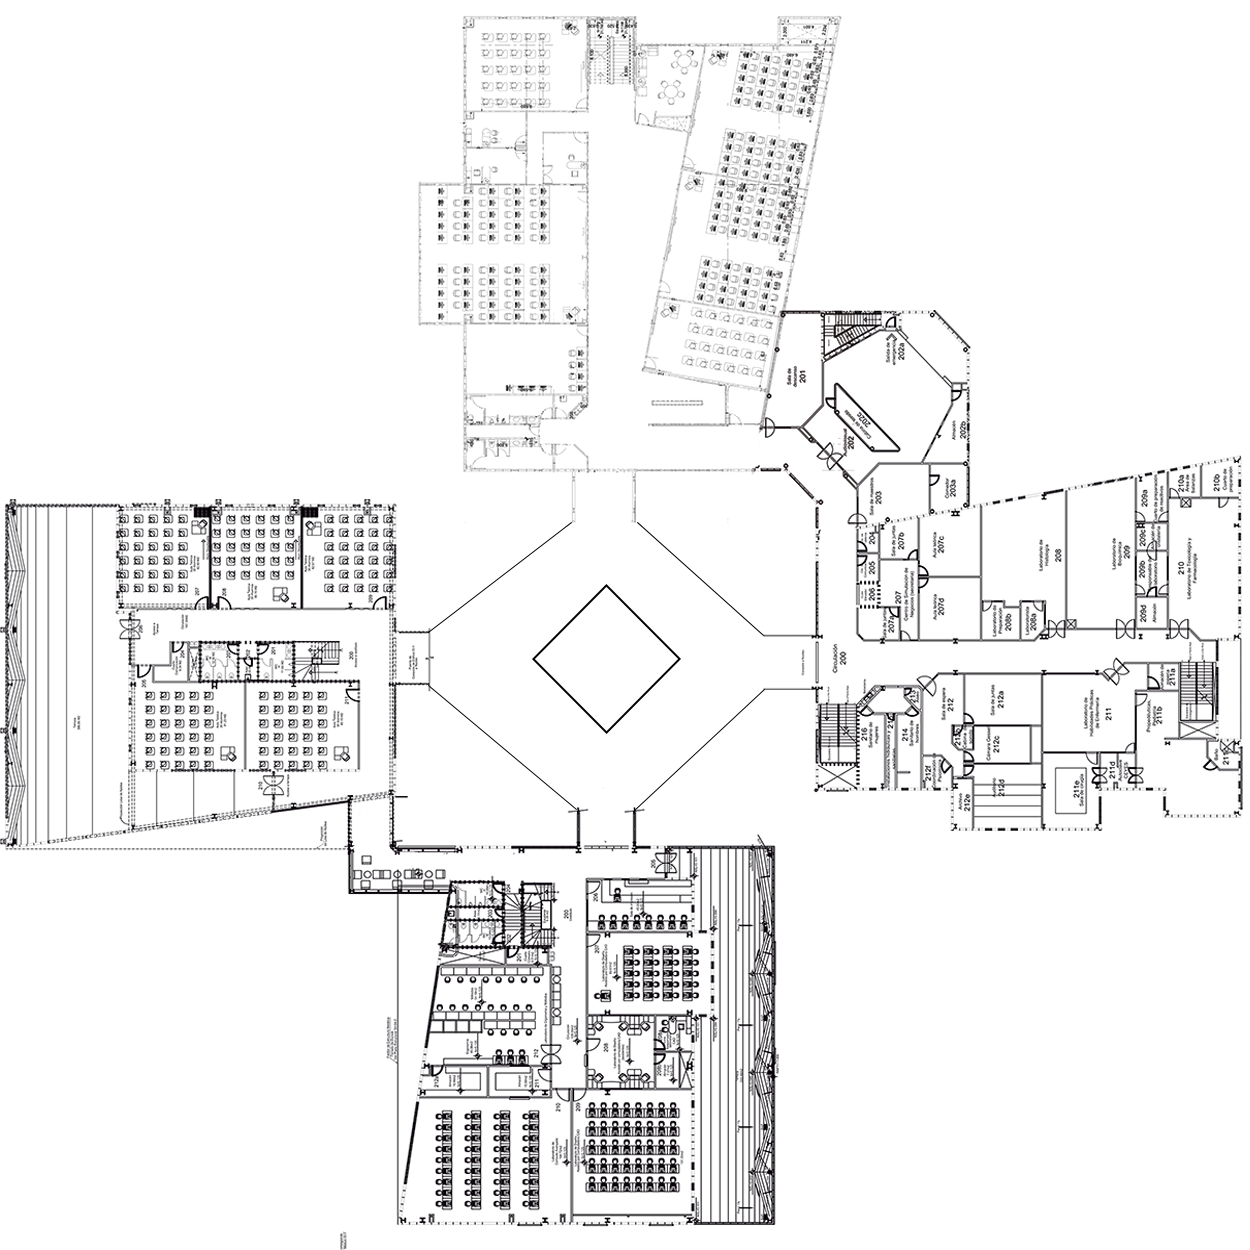
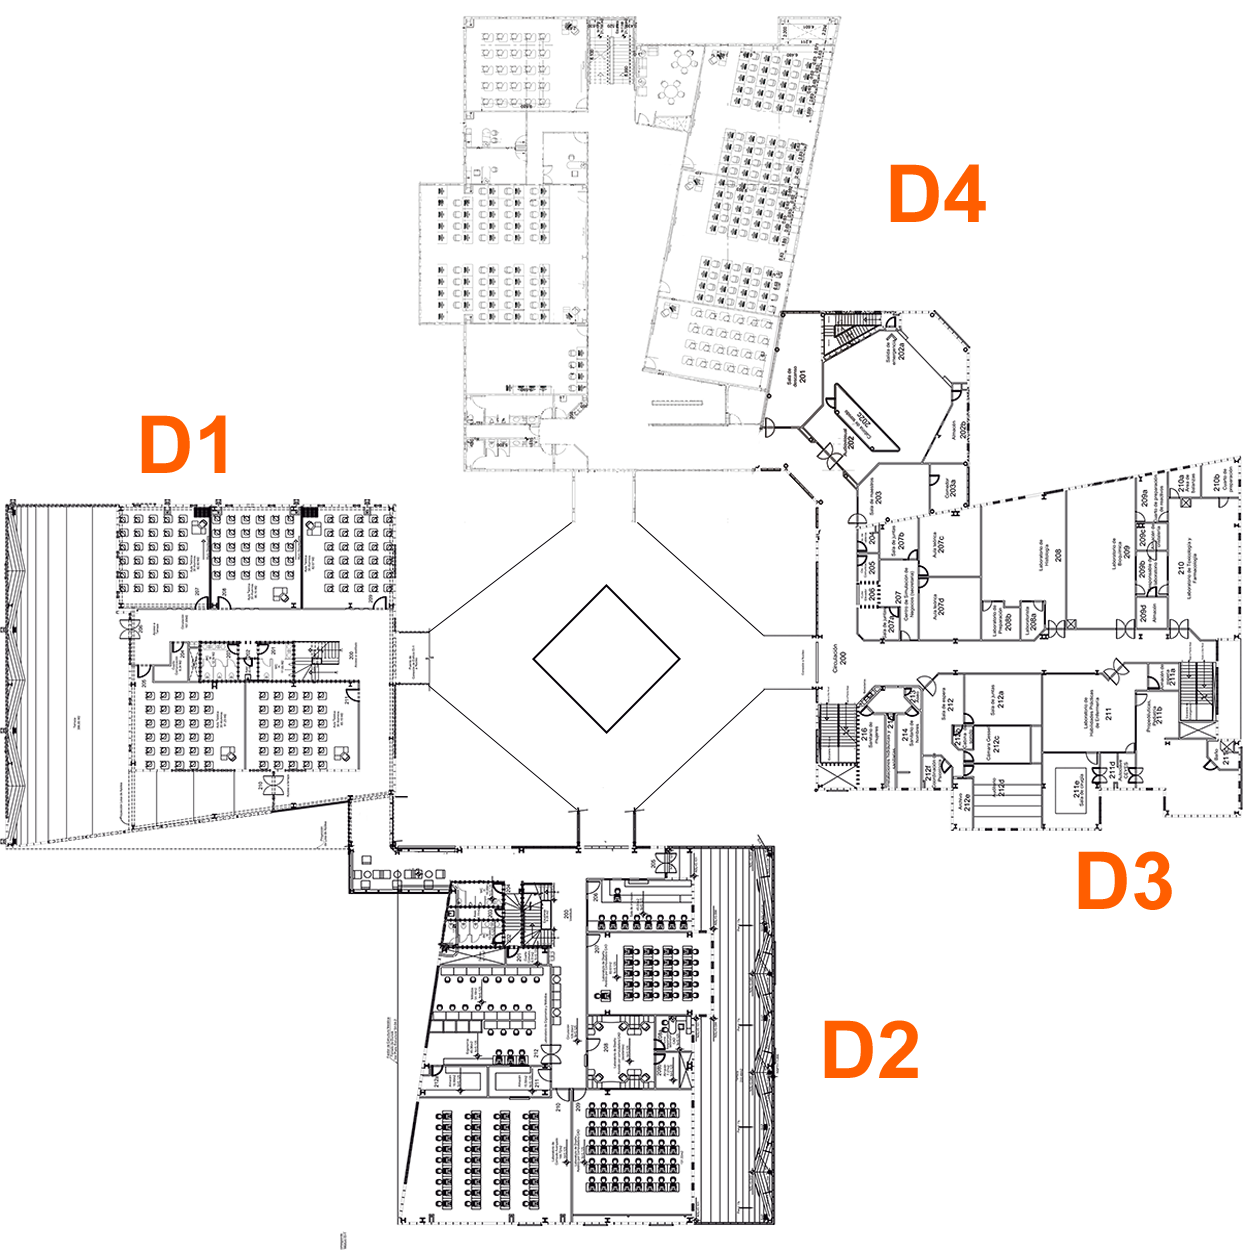
Ahi la llevamos x2

diff --git a/css/main.css b/css/main.css
@@ -25,67 +25,139 @@ div.fondo{
   width: 1250px
 }
 
-h2{
-  font-family: 'Oswald', sans-serif;
-  font-size: 2.4em;
-  text-transform: uppercase;
-  text-align: center;
-  color: orange;
-}
-
-h2#D1{
-  position: absolute;
-  top: 480px;
-  left: 180px;
-}
-
-h2#D2{
-  position: absolute;
-  top: 1000px;
-  left: 800px;
-}
-
-h2#D3{
-  position: absolute;
-  top: 880px;
-  left: 1050px;
-}
-
-h2#D4{
-  position: absolute;
-  top: 70px;
-  left: 900px;
-}
-
 
 div.menu{
   position: fixed;
   width: 100%;
-  height: 45px;
-  background-color: red;
+  height: 50px;
+  background-color: #353535;
+}
+
+div.menu p{
+background-color:#353535 ;
+padding:11px 25px;
+margin-top: 3px;
+margin-right: 100px;
+float: right;
+color:#fe4918;
+text-transform: uppercase;
+font-weight: bold;
+text-decoration: none;
+font-size: 1em;
+display: inline-block;
+transition: all .4s ease;
+border: 2px solid #fe4918;
+cursor: pointer;
+}
+
+div.menu p:hover{
+  background-color: #fe4918;
+color:white;
+}
+
+ div.p input[type=text] {
+    width: 100%;
+    height: 50px;
+    padding: 0px 25px;
+    margin: 8px 0;
+    border: 2px solid red;
+    border-radius: 4px;
+    cursor: none!important;
 }
 
 /*De aqui empiezan los nodos*/
 
-div.nodo{
+div.nodop{
   font-family: 'Arial', sans-serif;
   font-size:10px;
   font-weight: normal;
   position: absolute;
   height: 15px;
   width: 15px;
-  background-color: red;
+  background-color: black;
   border-radius: 50%;
 }
 
-div.nodo#D1204{
+div.nodov{
+  font-family: 'Arial', sans-serif;
+  font-size:10px;
+  font-weight: normal;
+  position: absolute;
+  height: 15px;
+  width: 15px;
+  background-color: yellow;
+  border-radius: 50%;
+}
+
+/*D1*/
+
+/*Nodos Puerta*/
+div.nodo#D1201{
   position: absolute;
   top: 25px;
   left: 50px;
 }
 
-div.nodo#D1P1{
+div.nodo#D1203{
   position: absolute;
   top: 50px;
   left: 50px;
 }
+
+div.nodo#D1204{
+  position: absolute;
+  top: 50px;
+  left: 50px;
+}
+
+div.nodo#D1205{
+  position: absolute;
+  top: 50px;
+  left: 50px;
+}
+
+div.nodo#D1206{
+  position: absolute;
+  top: 50px;
+  left: 50px;
+}
+
+div.nodo#D1207{
+  position: absolute;
+  top: 50px;
+  left: 50px;
+}
+
+div.nodo#D1208{
+  position: absolute;
+  top: 50px;
+  left: 50px;
+}
+
+div.nodo#D1209{
+  position: absolute;
+  top: 50px;
+  left: 50px;
+}
+
+div.nodo#D1210{
+  position: absolute;
+  top: 50px;
+  left: 50px;
+}
+
+div.nodo#D1211{
+  position: absolute;
+  top: 50px;
+  left: 50px;
+}
+
+div.nodo#D1212{
+  position: absolute;
+  top: 50px;
+  left: 50px;
+}
+
+
+
+/*Nodos Vestibulos*/

diff --git a/index.html b/index.html
@@ -10,17 +10,47 @@
 </head>
 <body>
   <div class="menu">
-    Iniciar
+    <p>Anchura</p>
+    <p>Primero El Mejor</p>
+    <input type="text">
+    <input type="text">
   </div>
 
   <div class="fondo">
-    <h2 id="D1">D1</h2>
-    <h2 id="D2">D2</h2>
-    <h2 id="D3">D3</h2>
-    <h2 id="D4">D4</h2>
 
-    <div class="nodo" id="D1204">D1204</div>
-    <div class="nodo" id="D1P1">D1P1</div>
+  <!-- D1-->
+
+    <div class="nodop" id="D1212">D1212</div>
+    <div class="nodop" id="D1211">D1211</div>
+    <div class="nodop" id="D1210">D1210</div>
+    <div class="nodop" id="D1209">D1209</div>
+    <div class="nodop" id="D1208">D1208</div>
+    <div class="nodop" id="D1207">D1207</div>
+    <div class="nodop" id="D1206">D1206</div>
+    <div class="nodop" id="D1205">D1205</div>
+    <div class="nodop" id="D1204">D1204</div>
+    <div class="nodop" id="D1203">D1203</div>
+    <div class="nodop" id="D1202">D1202</div>
+    <div class="nodop" id="D1201">D1201</div>
+
+    <div class="nodov" id="D1V0">D1V0</div>
+    <div class="nodov" id="D1V1">D1V1</div>
+    <div class="nodov" id="D1V2">D1V2</div>
+    <div class="nodov" id="D1V3">D1V3</div>
+    <div class="nodov" id="D1V4">D1V4</div>
+    <div class="nodov" id="D1V5">D1V5</div>
+    <div class="nodov" id="D1V6">D1V6</div>
+    <div class="nodov" id="D1V7">D1V7</div>
+    <div class="nodov" id="D1V8">D1V8</div>
+    <div class="nodov" id="D1V9">D1V9</div>
+    <div class="nodov" id="D1V10">D1V10</div>
+
+
+  <!-- D2-->
+
+  <!-- D3-->
+
+  <!-- D4-->
 
   </div>
 </body>
